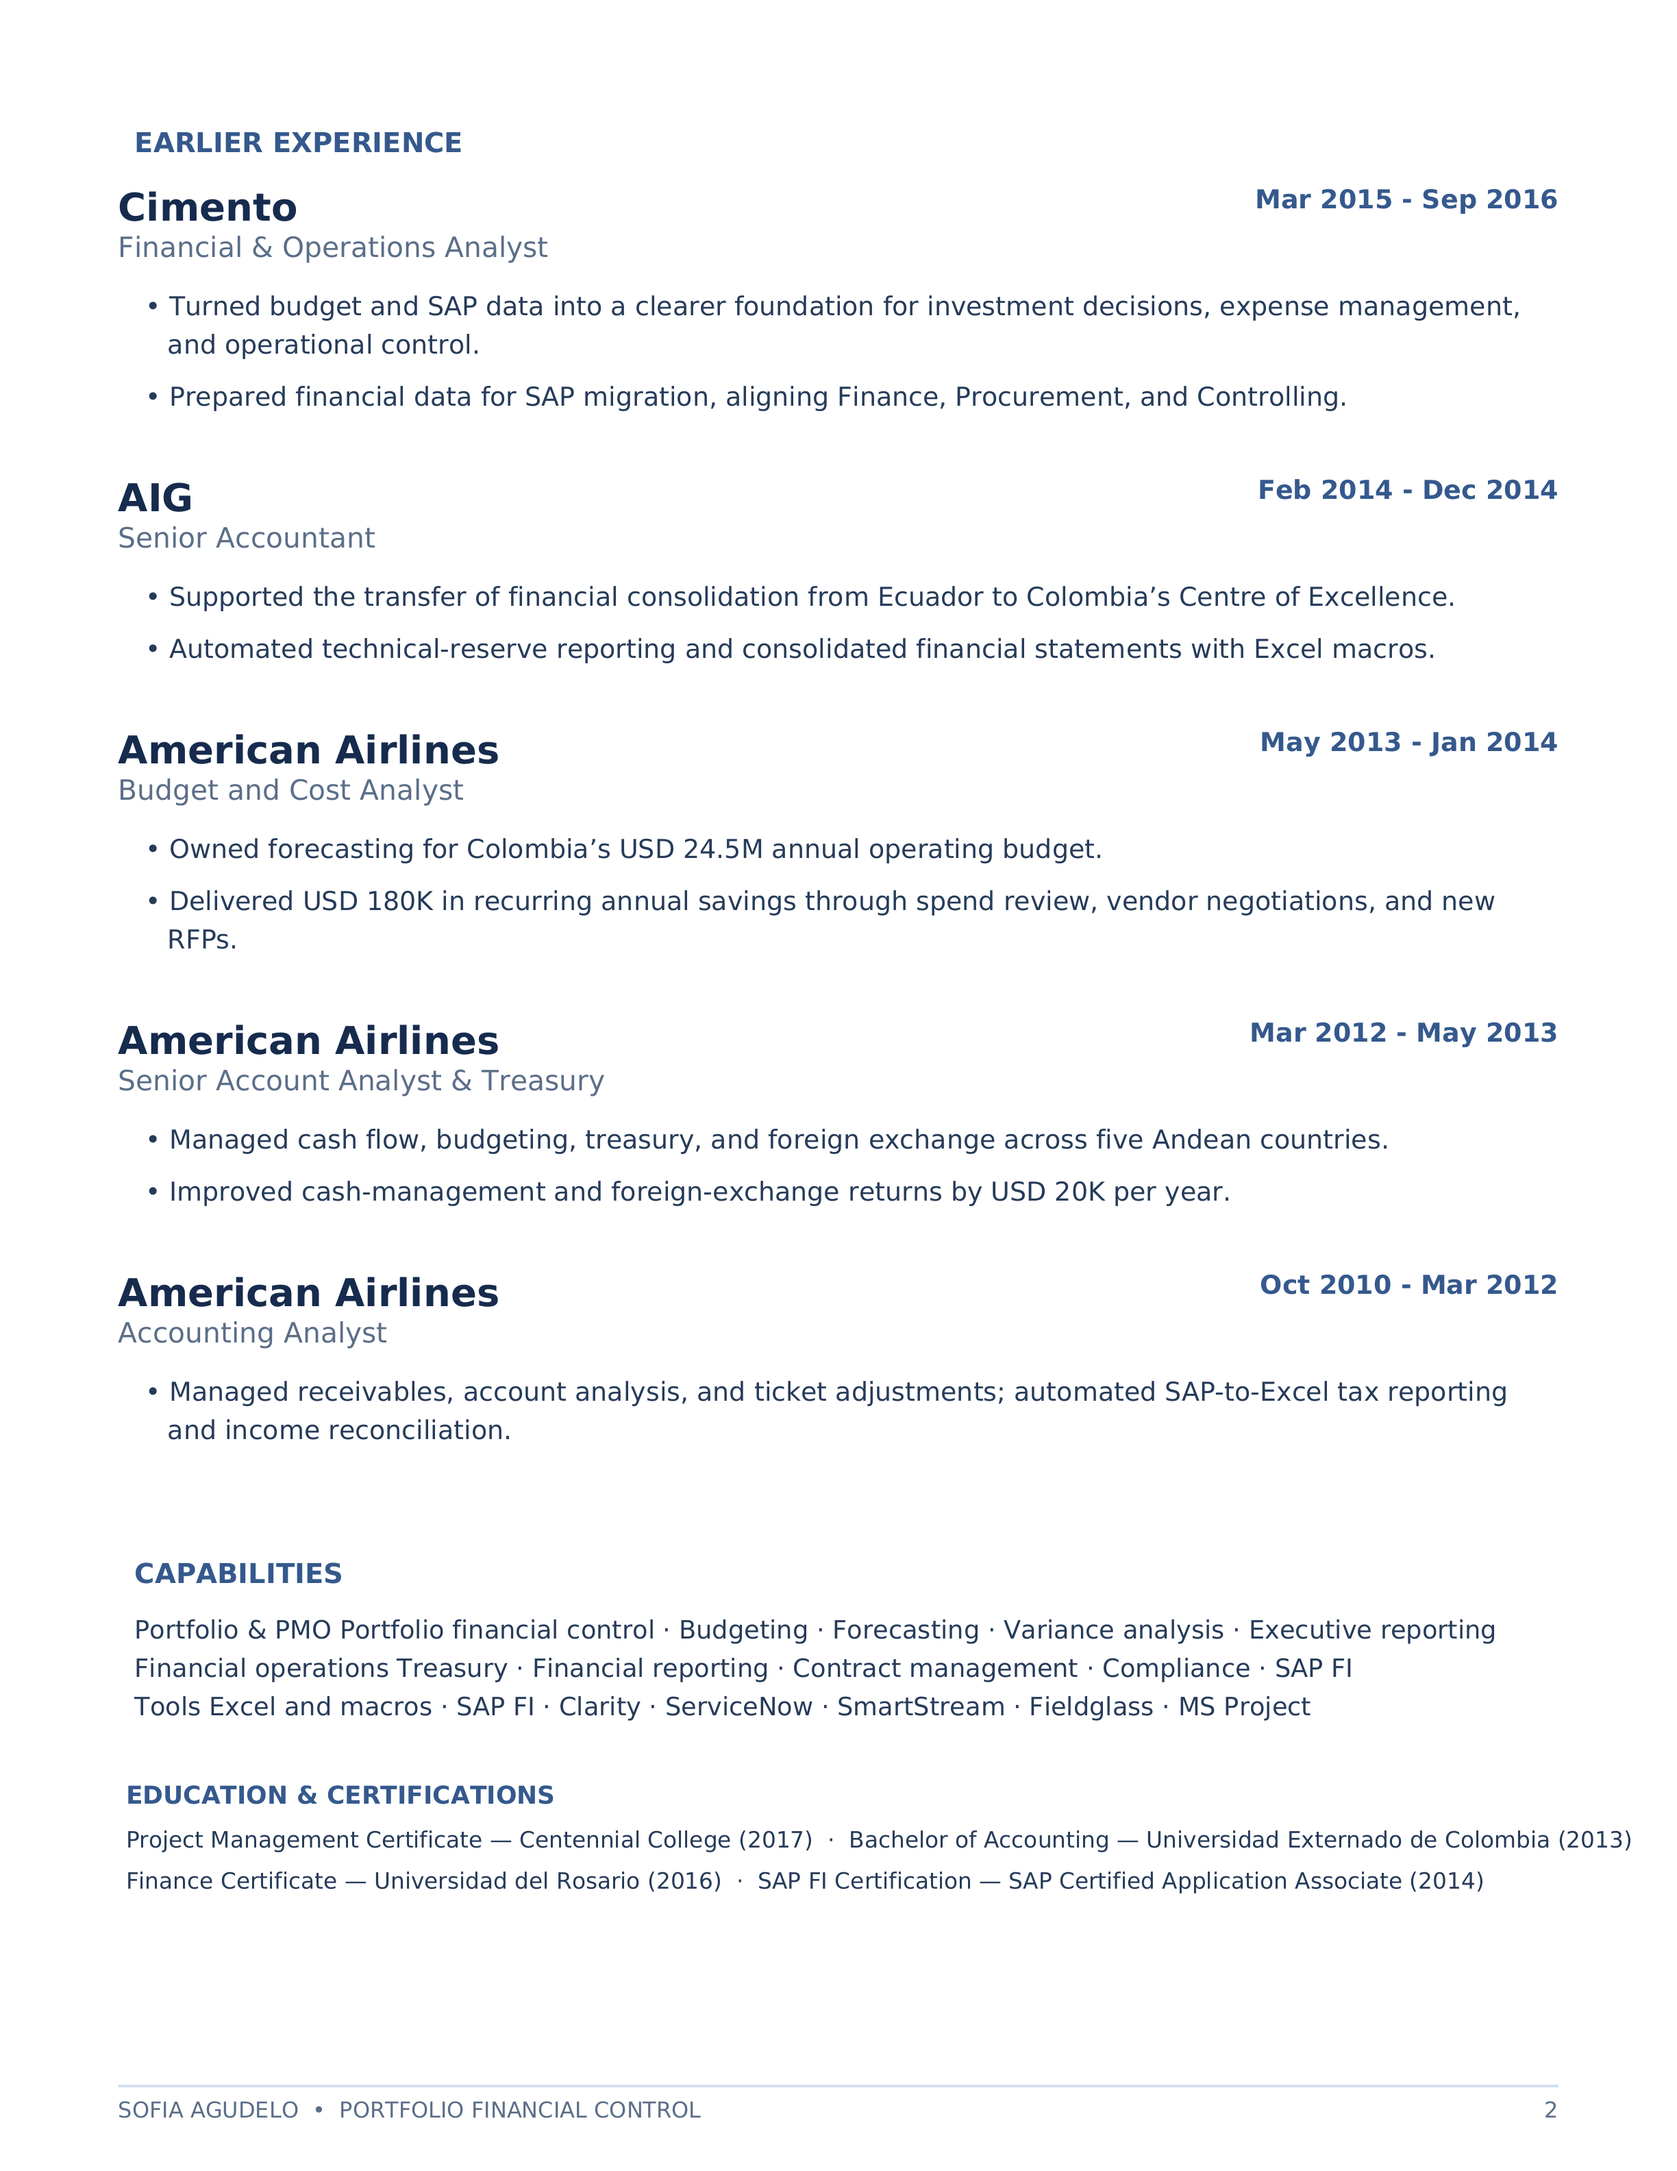
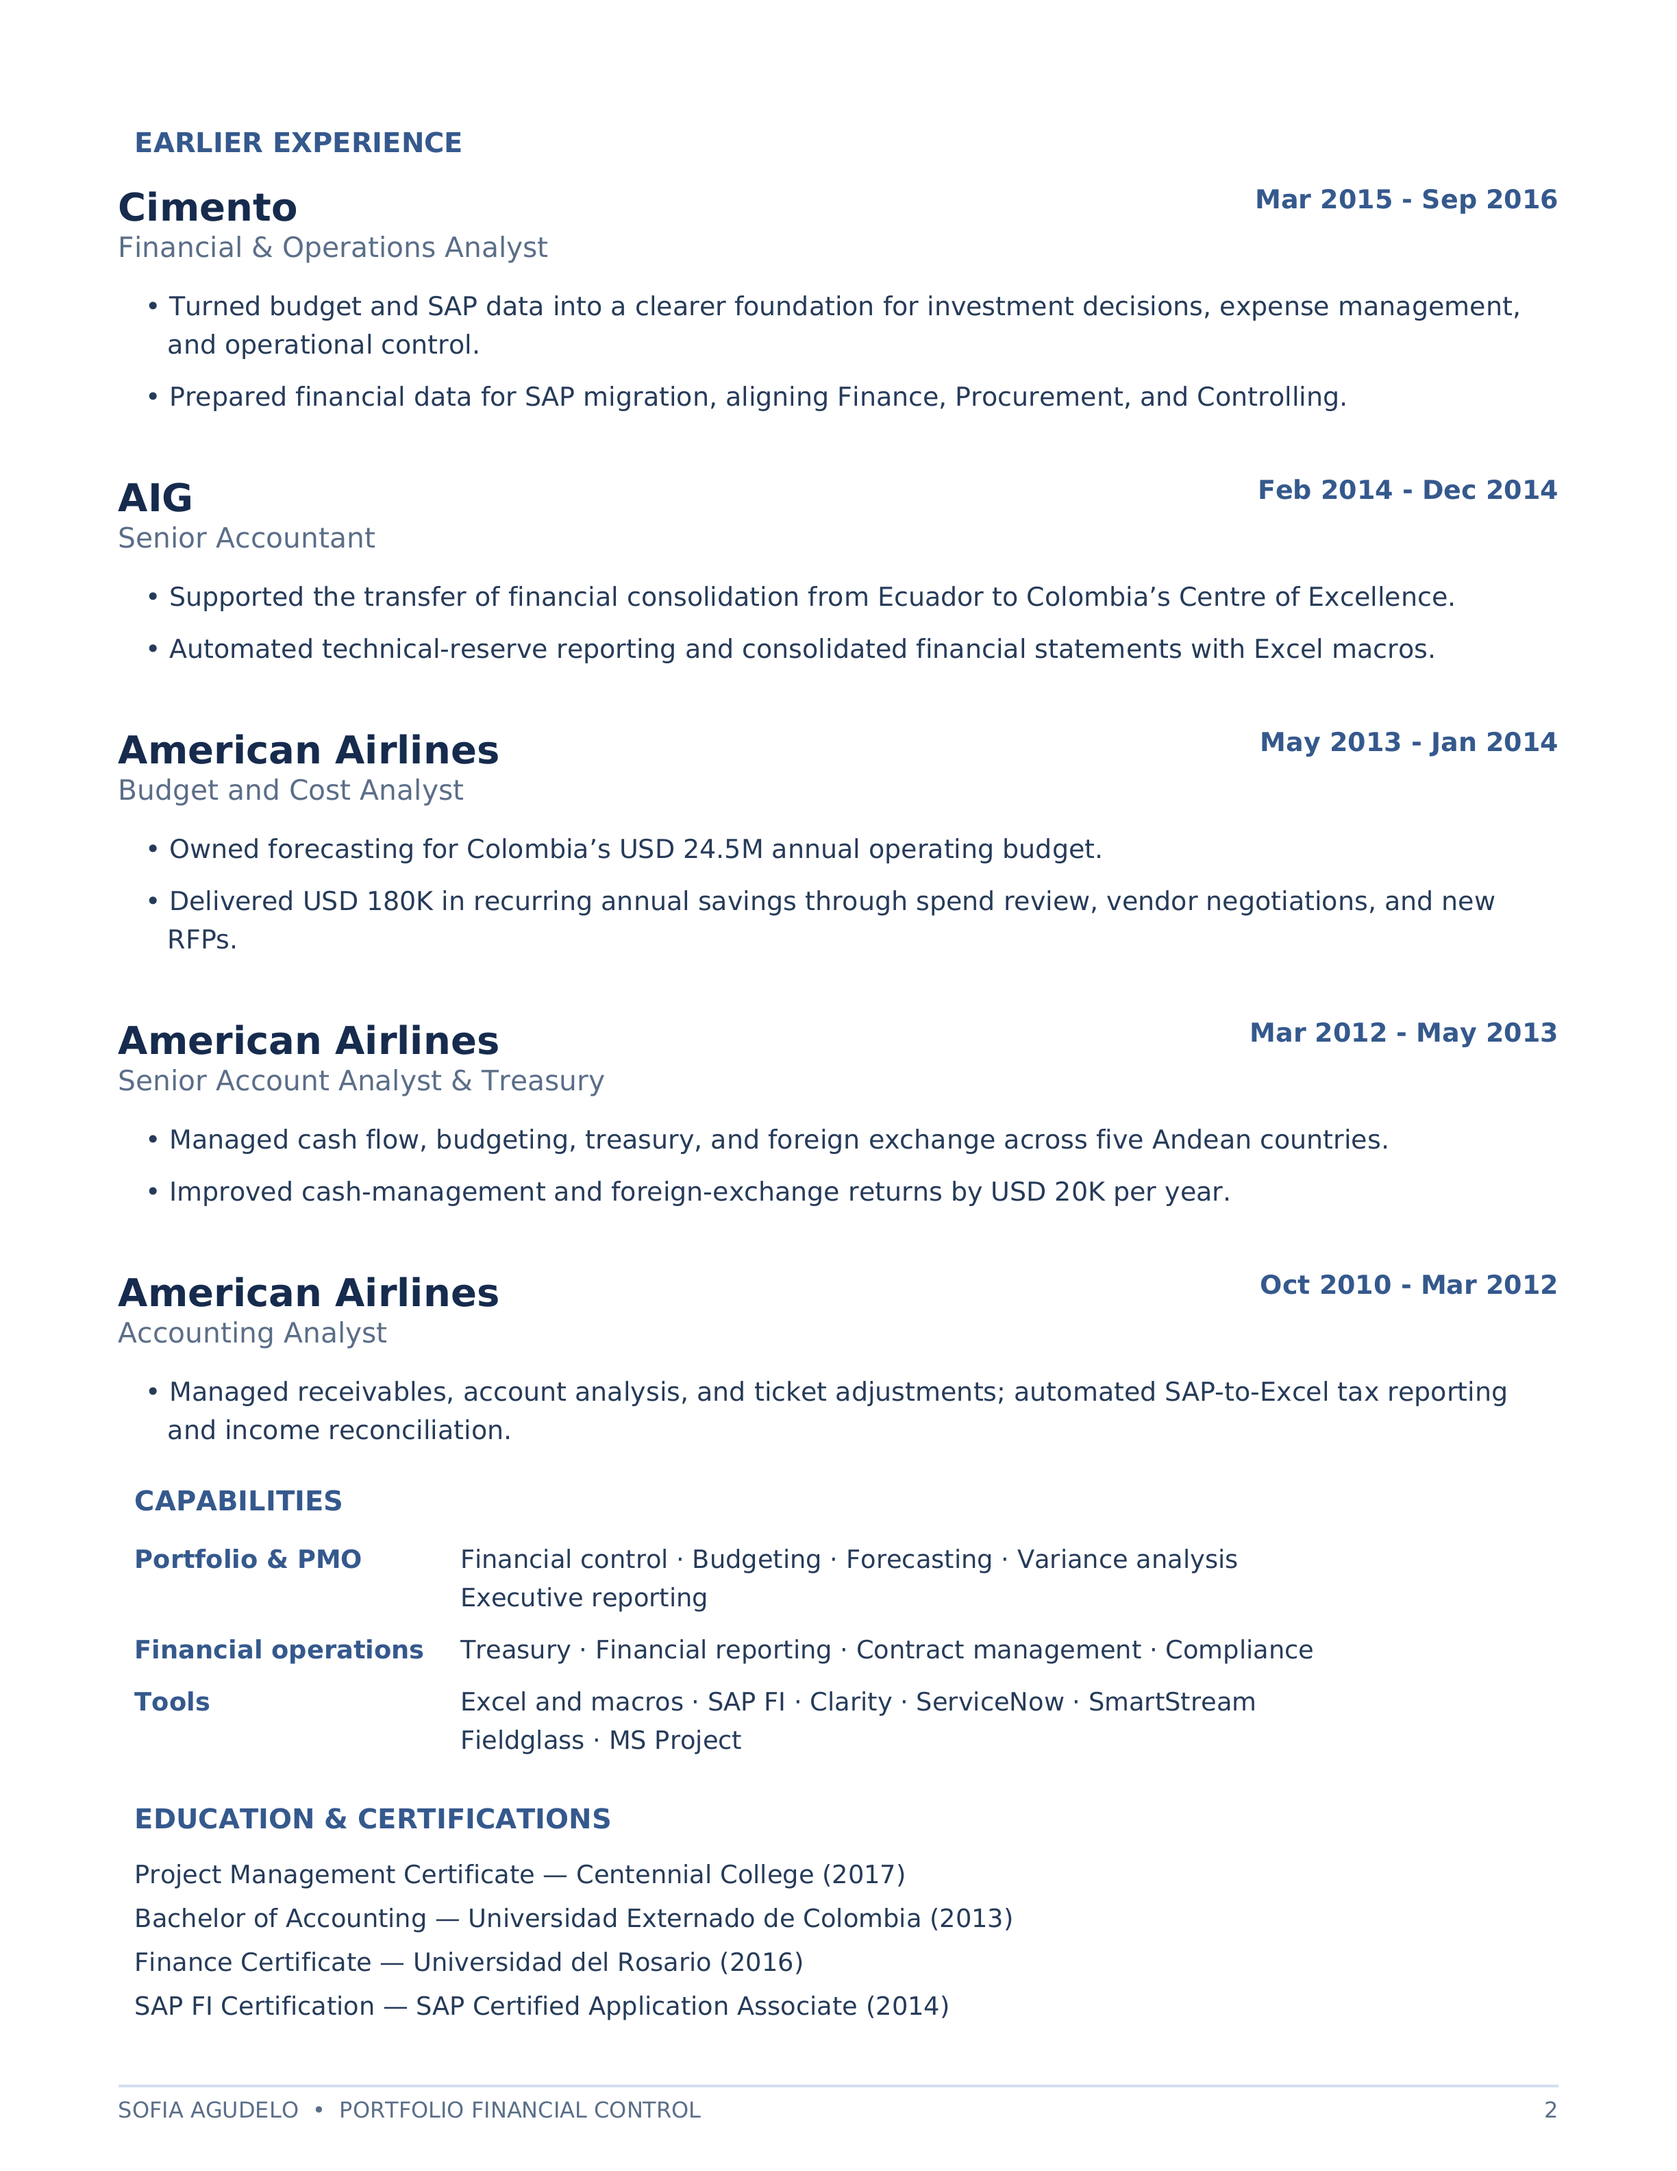
Tidy resume capabilities and education spacing

Changed region(s): [[0.0621, 0.6875, 0.9003, 0.9375]]

diff --git a/resume.html b/resume.html
@@ -1,7 +1,7 @@
 <!doctype html>
 <html lang="en"><head><meta charset="utf-8"><meta name="viewport" content="width=device-width,initial-scale=1"><meta name="robots" content="noindex,nofollow"><title>Resume · Sofia Agudelo</title><link rel="stylesheet" href="styles.css?v=20260928-4"><link rel="icon" type="image/svg+xml" href="favicon.svg"><link rel="preconnect" href="https://fonts.googleapis.com"><link rel="preconnect" href="https://fonts.gstatic.com" crossorigin><link href="https://fonts.googleapis.com/css2?family=DM+Sans:wght@400;500;600;700&family=Playfair+Display:wght@500;600&display=swap" rel="stylesheet"></head>
 <body><a class="skip" href="#main">Skip to content</a><nav class="nav" aria-label="Main navigation"><div class="wrap"><a class="brand" href="index.html"><span>SOFIA AGUDELO<small>PORTFOLIO FINANCIAL CONTROL</small></span></a><div class="navlinks"><a href="index.html">Home</a><a href="achievements.html">Achievements</a><a href="experience.html">Experience</a><a class="active" href="resume.html">Resume</a><a href="contact.html">Contact</a></div></div></nav>
-<main id="main" class="wrap resume-view-page"><header class="resume-view-head"><div><div class="eyebrow">Portfolio Financial Control · PMO · Business Performance</div><h1 class="serif">Resume</h1><p>View online or download a PDF copy.</p></div><div class="resume-actions"><a class="btn primary" href="assets/Sofia-Agudelo-Resume.pdf?v=20260929-3" download="Sofia-Agudelo-Resume.pdf">↓ Download resume</a><a class="btn" href="assets/Sofia-Agudelo-Resume.pdf?v=20260929-3" target="_blank" rel="noopener">Open PDF ↗</a></div></header>
-<section class="pdf-shell pdf-native" aria-label="Sofia Agudelo resume PDF"><object data="assets/Sofia-Agudelo-Resume.pdf?v=20260929-3" type="application/pdf" aria-label="Sofia Agudelo resume"><a class="btn primary" href="assets/Sofia-Agudelo-Resume.pdf?v=20260929-3" target="_blank" rel="noopener">View resume PDF</a></object></section>
-<section class="pdf-shell resume-preview" aria-label="Sofia Agudelo resume preview"><img src="assets/sofia-resume-page-1.png?v=20260929-3" alt="Sofia Agudelo resume, page 1" usemap="#resume-page-one-links"><map name="resume-page-one-links"><area shape="rect" coords="1035,485,1260,575" href="https://www.linkedin.com/in/sofia-agudelo/" target="_blank" rel="noopener" alt="Sofia Agudelo on LinkedIn"><area shape="rect" coords="1300,485,1530,575" href="https://sofiaagudelo.net" target="_blank" rel="noopener" alt="Sofia Agudelo portfolio"></map><img src="assets/sofia-resume-page-2.png?v=20260929-3" alt="Sofia Agudelo resume, page 2"></section>
+<main id="main" class="wrap resume-view-page"><header class="resume-view-head"><div><div class="eyebrow">Portfolio Financial Control · PMO · Business Performance</div><h1 class="serif">Resume</h1><p>View online or download a PDF copy.</p></div><div class="resume-actions"><a class="btn primary" href="assets/Sofia-Agudelo-Resume.pdf?v=20260929-4" download="Sofia-Agudelo-Resume.pdf">↓ Download resume</a><a class="btn" href="assets/Sofia-Agudelo-Resume.pdf?v=20260929-4" target="_blank" rel="noopener">Open PDF ↗</a></div></header>
+<section class="pdf-shell pdf-native" aria-label="Sofia Agudelo resume PDF"><object data="assets/Sofia-Agudelo-Resume.pdf?v=20260929-4" type="application/pdf" aria-label="Sofia Agudelo resume"><a class="btn primary" href="assets/Sofia-Agudelo-Resume.pdf?v=20260929-4" target="_blank" rel="noopener">View resume PDF</a></object></section>
+<section class="pdf-shell resume-preview" aria-label="Sofia Agudelo resume preview"><img src="assets/sofia-resume-page-1.png?v=20260929-4" alt="Sofia Agudelo resume, page 1" usemap="#resume-page-one-links"><map name="resume-page-one-links"><area shape="rect" coords="1035,485,1260,575" href="https://www.linkedin.com/in/sofia-agudelo/" target="_blank" rel="noopener" alt="Sofia Agudelo on LinkedIn"><area shape="rect" coords="1300,485,1530,575" href="https://sofiaagudelo.net" target="_blank" rel="noopener" alt="Sofia Agudelo portfolio"></map><img src="assets/sofia-resume-page-2.png?v=20260929-4" alt="Sofia Agudelo resume, page 2"></section>
 </main><footer class="wrap footer">© 2026 Sofia Agudelo · <a href="https://www.linkedin.com/in/sofia-agudelo/" target="_blank" rel="noopener noreferrer">LinkedIn</a></footer><script>const localPreview=location.protocol==='file:';document.querySelector('.pdf-native').hidden=localPreview;document.querySelector('.resume-preview').hidden=!localPreview;</script></body></html>
